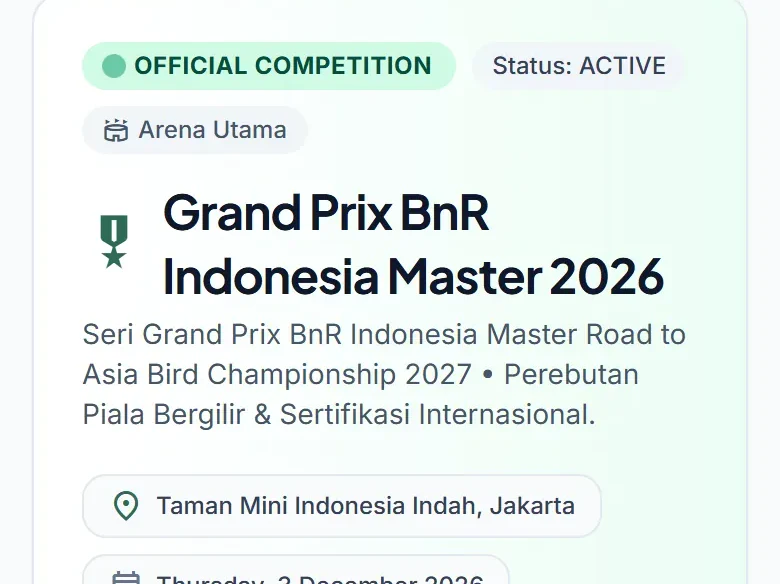
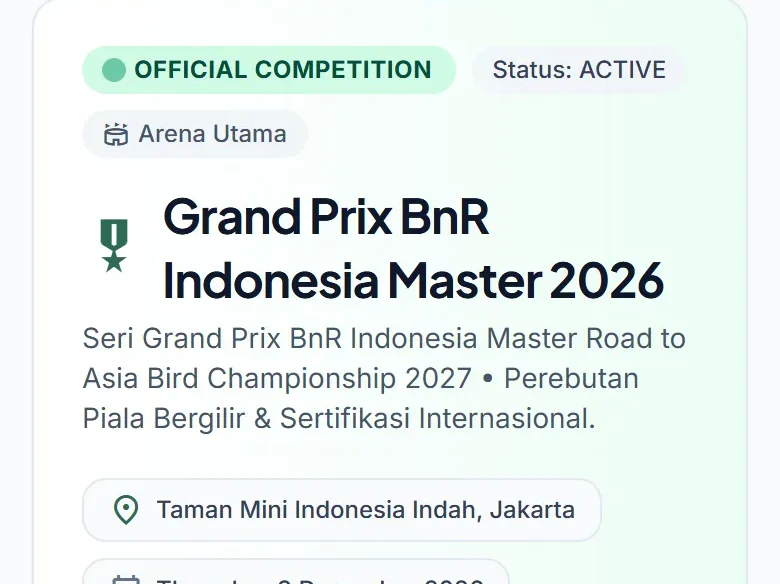
kicauscore: desktop 67%-zoom screenshot for home-card, standings-wide y=247
home-card.webp: replaced with 800x250 crop from a 1920px desktop
screenshot at 67% browser zoom. Desktop layout now fully visible with
Daftar button in the right column shown without side-cropping.

standings-wide.webp: crop start shifted from y=250 to y=247.

diff --git a/src/content/pictures.ts b/src/content/pictures.ts
@@ -117,8 +117,8 @@ export const PICTURES = {
     },
     home: {
       src: "/work/kicauscore/home-card.webp",
-      width: 780,
-      height: 480,
+      width: 800,
+      height: 250,
       alt: "KicauScore contest page: the event with its venue, date and hours, the bird classes and the category rundown",
     },
     homeCluster: {
